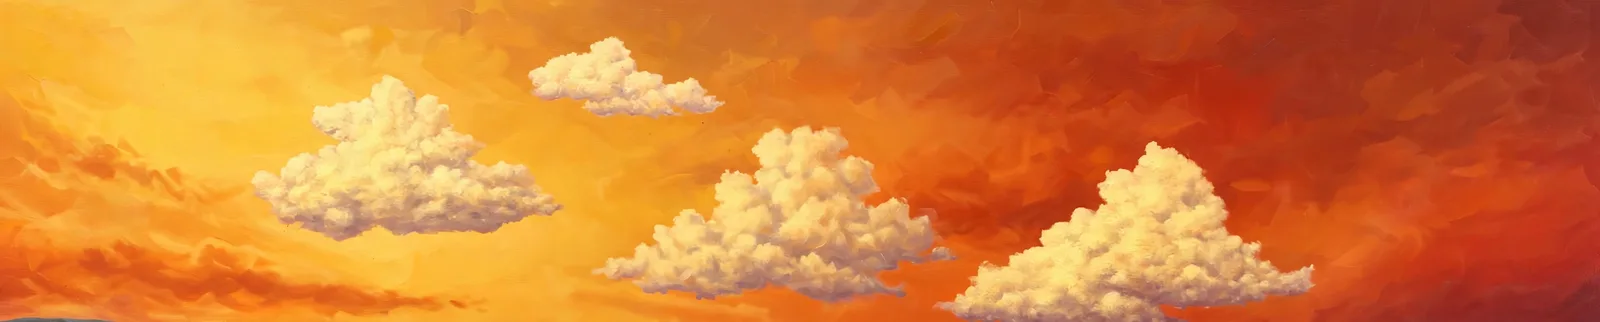
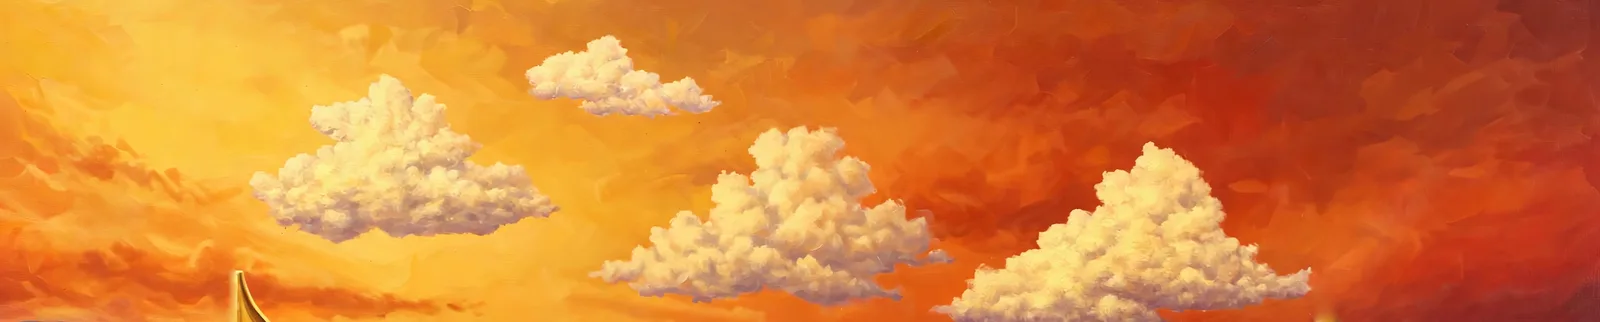
6loud DEV FORK 116: FLOWER FIELD IDENTITY PLATES — the master is OURS (Keith, 2026-11-15 22:29-22:30 ET: the album cover was inspiration only, the world must be unique — he picked "Notes in the field": giant musical notes among the sunflowers, 6loud's own currency as the world's signature). Plates r

diff --git a/6loud/dev/index.html b/6loud/dev/index.html
@@ -255,7 +255,7 @@
   <button id="charR" aria-label="Next character"></button>
   <div id="selectStack"><div id="charName">6LADE</div><div id="charBest"></div><div id="charLock" style="display:none;pointer-events:auto;cursor:pointer;"></div>   <!-- DEV FORK 74: the price line is a tap target — it opens the buy card --></div>
   <div id="strip"></div>
-  <div id="mapToast" style="display:none;"><img id="mapBadge" src="unlock-badge.webp" alt="NEW LEVEL UNLOCKED!"><div class="mt2" id="mapToastName">MIDNIGHT RUN</div></div>   <!-- DEV FORK 27: Keith's badge art carries the announcement; the gold line names the map --><div id="titleUI">   <!-- DEV FORK 26: the unlock toast lives at body level — a fixed element inside a transformed ancestor would anchor to the ancestor, not the sky --><button id="startBtn">START GAME</button><button id="mapBtn" style="display:none;">MAP: DAY BREAK</button>   <!-- DEV FORK 26: the start-area toggle --><button id="optBtn" class="audTg">OPTIONS</button><div id="ver">v0.99.8 · DEV FORK 115</div></div>
+  <div id="mapToast" style="display:none;"><img id="mapBadge" src="unlock-badge.webp" alt="NEW LEVEL UNLOCKED!"><div class="mt2" id="mapToastName">MIDNIGHT RUN</div></div>   <!-- DEV FORK 27: Keith's badge art carries the announcement; the gold line names the map --><div id="titleUI">   <!-- DEV FORK 26: the unlock toast lives at body level — a fixed element inside a transformed ancestor would anchor to the ancestor, not the sky --><button id="startBtn">START GAME</button><button id="mapBtn" style="display:none;">MAP: DAY BREAK</button>   <!-- DEV FORK 26: the start-area toggle --><button id="optBtn" class="audTg">OPTIONS</button><div id="ver">v0.99.8 · DEV FORK 116</div></div>
   <div id="dbg"></div>
   <div id="adSim"><div class="adSimIn"><button id="adSimClose" disabled>✕</button><div class="adSimTag">TEST AD · <span id="adSimKind">REWARDED</span></div><div class="adSimBody">Your ad would play here.</div><div id="adSimCount">5s</div><div class="adSimBar"><div id="adSimFill"></div></div><button id="adSimClaim" class="btn" style="display:none;">CLAIM REVIVE</button><div class="adSimHint" id="adSimHint"></div></div></div>
   <div id="loader"><div class="ldSea"></div><img id="ldEmblem" src="emblem.webp" alt="6LOUD"><div id="ldWord">LOADING...</div><div id="ldBarWrap"><div id="ldBar"><div id="ldFill"></div></div></div><div id="ldSub">GET READY TO JUMP!</div><div id="ldPct">LOADING 0%</div><div id="ldTip"></div></div>
@@ -987,7 +987,7 @@ window.__STORMBG.forEach(i => queueImg(im => { BGIMG['rs' + i] = im; }, 'stormbg
 window.__dressDay = function (idx) { return window.__bokPlane === 'mid' ? BGIMG['rd' + window.__BGRAIN_D[idx % window.__BGRAIN_D.length]] : BGIMG['rs' + window.__STORMBG[idx % window.__STORMBG.length]]; };   /* DEV FORK 89: the DAY dressing, picked by plane (Keith) — the FAR background keeps the storm first set (FORK 84); the MID layer wears the bgrain DAY pool instead: up close, the storm set's baked-rain clouds read as jellyfish */
 window.__CITYDUSK = {}; ['far', 'mid', 'near', 'fogband', 'far2', 'mid2', 'near2', 'far3', 'mid3', 'near3', 'far4', 'mid4', 'near4']   /* DEV FORK 99: sets 2-4 load beside the demo set */.forEach(k => queueImg(im => { window.__CITYDUSK[k] = im; }, 'citydusk/' + k + '.webp', false));   /* DEV FORK 87: the CITY DUSK demo plates — image-generated art, fog + bokeh baked in by code (Keith) */
 window.__SEASTRIP = null; queueImg(im => { window.__SEASTRIP = im; }, 'seastrip.webp', false);
-window.__FLOWER = { sky: null, hills: null, strip: null }; ['sky', 'hills', 'strip'].forEach(k => queueImg(im => { window.__FLOWER[k] = im; }, 'flowerboy/' + k + '.webp', false));   /* DEV FORK 108: the FLOWER FIELD plates (tools/bake_flowerboy.py) — fork-local demo art, loaded lazy like the background packs, never core */   /* DEV FORK 110: no bees are loaded — Keith removed them (2026-11-15: "Remove the beas and the rainbow"); the plates were re-baked bee- and rainbow-free (tools/bake_flowerboy_v2.py) and the bee webps stay on disk unreferenced */   /* DEV FORK 95: THE SEA STRIP — one baked cloud-top field (tools/bake_seastrip.py, from Keith's realistic cloud photos), mirror-tiled by the sea draw in the standard worlds */
+window.__FLOWER = { sky: null, hills: null, strip: null }; ['sky', 'hills', 'strip'].forEach(k => queueImg(im => { window.__FLOWER[k] = im; }, 'flowerboy/' + k + '.webp', false));   /* DEV FORK 108: the FLOWER FIELD plates (tools/bake_flowerboy.py) — fork-local demo art, loaded lazy like the background packs, never core */   /* DEV FORK 110: no bees are loaded — Keith removed them (2026-11-15: "Remove the beas and the rainbow"); the plates were re-baked bee- and rainbow-free (tools/bake_flowerboy_v2.py) and the bee webps stay on disk unreferenced */   /* DEV FORK 116: the plates are re-baked from the v3 NOTES master (tools/bake_flowerboy_v3.py) — the world is ours: every gold note lives whole in the hills plate (band extended to master 330-975, plate 1600x421) so no note shears across the parallax split, and the strip is pure sunflower texture with every note pixel painted out */   /* DEV FORK 95: THE SEA STRIP — one baked cloud-top field (tools/bake_seastrip.py, from Keith's realistic cloud photos), mirror-tiled by the sea draw in the standard worlds */
 window.__dressOne = function (d, star, dx, dy, ox, txm, tym) { if (window.__map !== 'rain' && window.__map !== 'rain2') return false; const a = ctx.globalAlpha; const idx = Math.abs(Math.round(d.x * 7 + d.y * 13)); if (star < 0.98) { const im = window.__bokPick ? window.__bokPick(window.__dressDay(idx)) : window.__dressDay(idx);   /* DEV FORK 87: BOKEH demo — the rain worlds' far dressing takes the pass too (far plane only; __bokPick checks the plane) */   /* DEV FORK 89: by day the FAR background is the storm first set (FORK 84) but the MID layer wears the bgrain day pool — jellyfish out of the near background (Keith) */ if (im && im.naturalWidth) { ctx.globalAlpha = a * (1 - star); ctx.drawImage(im, dx + ox - tiltX * txm, dy - tiltY * tym, d.w, d.w * im.naturalHeight / im.naturalWidth); } } if (star > 0.02) { const im = window.__bokPick ? window.__bokPick(BGIMG['rn' + window.__BGRAIN_N[idx % window.__BGRAIN_N.length]]) : BGIMG['rn' + window.__BGRAIN_N[idx % window.__BGRAIN_N.length]];   /* DEV FORK 87: BOKEH demo — same for the night set */ if (im && im.naturalWidth) { ctx.globalAlpha = a * star; ctx.drawImage(im, dx + ox - tiltX * txm, dy - tiltY * tym, d.w, d.w * im.naturalHeight / im.naturalWidth); } } ctx.globalAlpha = a; return true; };   /* DEV FORK 83: in the rain worlds a dress sprite wears Keith's rain clouds — day art by day, night art by night, crossfaded on the sky's star; returns true so the standard cloud never draws there */
 pumpQ();
 
@@ -3167,12 +3167,12 @@ function dbgTick(ts) {
   if (mode === 'over') {   /* DEV FORK: on the results screen the readout SHRINKS to a two-line strip docked at the very bottom — the full panel was sprawled over the leaderboard (Keith's screenshot, 2026-11-11) */
     const el = $('dbg');
     el.style.top = 'auto'; el.style.bottom = 'calc(4px + env(safe-area-inset-bottom))'; el.style.fontSize = '9.5px';
-    el.textContent = 'FORK115 · OVER · ' + dbgFps + 'fps · ' + innerWidth + 'x' + innerHeight + ' · ' + selChar + ' R' + (PSKIN.rate || 1) + ' · DIST ' + Math.round(runFt()) + ' FT · SCR ' + score + ' · JMP ' + jumps + '\n' + ghostTxt + (DBG_EV.length ? ' · ' + DBG_EV[DBG_EV.length - 1] : '');
+    el.textContent = 'FORK116 · OVER · ' + dbgFps + 'fps · ' + innerWidth + 'x' + innerHeight + ' · ' + selChar + ' R' + (PSKIN.rate || 1) + ' · DIST ' + Math.round(runFt()) + ' FT · SCR ' + score + ' · JMP ' + jumps + '\n' + ghostTxt + (DBG_EV.length ? ' · ' + DBG_EV[DBG_EV.length - 1] : '');
     return;
   }
   const el = $('dbg'); el.style.top = ''; el.style.bottom = ''; el.style.fontSize = '';
   const lines = [
-    'FORK115 · ' + String(mode).toUpperCase() + ' · ' + dbgFps + 'fps · ' + innerWidth + 'x' + innerHeight + ' dpr' + (devicePixelRatio || 1),
+    'FORK116 · ' + String(mode).toUpperCase() + ' · ' + dbgFps + 'fps · ' + innerWidth + 'x' + innerHeight + ' dpr' + (devicePixelRatio || 1),
     'CHR ' + selChar + ' R' + (PSKIN.rate || 1) + ' · SPD ' + Math.round(speed) + ' · ZOOM ' + zoom.toFixed(2),
     'DIST ' + Math.round(runFt()) + ' FT · SCR ' + score + ' · JMP ' + jumps,
     'vy ' + Math.round(vy) + (grounded ? ' · GROUND' : ' · AIR ' + (airMove || '-')) + ' · DBL ' + (doubleArmed ? 'ARM' : doubleUsed ? 'USED' : '-') + ' · TPL ' + (tripleUsed ? 'USED' : '-'),

diff --git a/6loud/dev/flowerboy/README.md b/6loud/dev/flowerboy/README.md
@@ -1,20 +1,62 @@
-# FLOWER FIELD demo plates (DEV FORK 108; bees + rainbow removed in DEV FORK 110)
+# FLOWER FIELD demo plates (DEV FORK 108; bees + rainbow removed in DEV FORK 110; identity plates in DEV FORK 116)
 
-Demo backdrop recreating the Flower Boy cover scene, at Keith's order
-(2026-11-15) — a working label only; Keith names worlds himself.
+Demo backdrop for the flower world, at Keith's order (2026-11-15)
+— a working label only; Keith names worlds himself. As of FORK 116
+the master is OURS (Keith, 2026-11-15 22:29-22:30 ET: the album
+cover was inspiration only, the world must be unique — he picked
+"Notes in the field": giant musical notes among the sunflowers,
+6loud's own currency as the world's signature).
 
 - Master (demo provenance, like the Golden Hour masters):
-  `renders/flowerboy-src/media-generation-flowerboy-master-v2-nobees-*.webp`
-  — the clean re-generation with no bees and no rainbow (Keith,
-  2026-11-15: "Remove the beas and the rainbow").
-- Bake: `tools/bake_flowerboy_v2.py` — sky / hills / sunflower strip
-  plates split by the painting's natural bands (QC:
-  `renders/flowerboy-src/flowerboy-plates-qc-v2.jpg`).
-- sky.webp — sky + clouds, opaque, full-cover backdrop. No rainbow.
-- hills.webp — green hills + road + car, top edge noise-melted.
-- strip.webp — sunflower band, mirror-tiled foreground strip (the sea
-  strip's role).
+  `renders/flowerboy-src/media-generation-flowerboy-master-v3-notes-*.webp`
+  (2448×1024) — sunset sky, green hills + road + car, sunflower
+  field, and SEVEN gold notes: two giants flanking, note 2, a
+  beamed pair, three small drifts. No bees, no rainbow.
+- Bake: `tools/bake_flowerboy_v3.py` (QC:
+  `renders/flowerboy-src/flowerboy-plates-qc-v3.jpg`; parallax
+  rigidity: `renders/flowerboy-src/flowerboy-parallax-qc-v3.jpg`
+  via `tools/flowerboy_parallax_qc.py`).
+- THE BANDING LAW (settled from the __flowerDraw math): every
+  note lives WHOLE in the hills plate — heads and full stems at
+  their painted positions — so no note shears across the
+  parallax split; the strip draws over the hills' bottom band
+  in play, so stem bases (and note 2's head) tuck behind the
+  flowers and the notes read as rising out of the field.
+- sky.webp — sky + clouds, opaque, full-cover backdrop
+  (1600×322). The giants' stems are painted out of it — their
+  tops live in the hills; a sky copy would ghost at the split.
+- hills.webp — green hills + road + car AND all seven notes,
+  top edge noise-melted with the notes' alpha restored through
+  the melt. Band extended to master y 330–975 to hold the notes
+  whole; plate 1600×421 keeps the painting's aspect. No note
+  straddles a tile edge (≥150 plate px clear), so mirror tiling
+  never halves one.
+- strip.webp — PURE sunflower band (2000×197, FORK 110's exact
+  size and anchor), mirror-tiled foreground strip (the sea
+  strip's role). Every note pixel in its band is painted out
+  with cloned flowers; only the giants' green stalks remain,
+  reading as flower stems.
 - bee1–bee6.webp — the FORK 108 bee sprites. As of FORK 110 they are
   UNREFERENCED: the code neither loads nor draws them. The files stay
   on disk and on the site by decision; nothing in the game points at
   them.
+- rainbow.webp — STAGED, NOT WIRED (asset prepared 2026-11-15).
+  Keith's ruling (2026-11-15 22:43 ET): "You could put a single
+  rainbow we pass / In the distance" — ONE rainbow, far away, passed
+  once per run. It must NOT be baked into the tiling plates; wire it
+  as a single far-plane sprite at a fixed world position.
+  Source: route (a) — a fresh arc generated on pure black
+  (`renders/flowerboy-src/media-generation-flowerboy-rainbow-onblack-v2-*.webp`;
+  black chosen because every saturated chroma hue collides with one
+  of the rainbow's own bands), lifted by additive max-channel alpha
+  extraction + un-premultiply, ~22% atmospheric desaturation, alpha
+  capped at 0.95. NOT extracted from the v1 master — its rainbow is
+  a partial arc exiting the canvas corner. QC:
+  `renders/flowerboy-src/rainbow-qc-v1.jpg`.
+  Canvas 1600×880, lossless WebP, straight (un-premultiplied) alpha.
+  Anchors for the wiring: visual centre x = 0.506 of width; arc top
+  edge at y ≈ 0.015 of height; the FOOT LINE IS THE CANVAS BOTTOM
+  EDGE — both feet dissolve to zero alpha right at the bottom, so
+  anchor placements by the bottom edge and set it at or just below
+  the hills line so the feet read as lost in the hills. Strong span
+  (alpha > 0.25): x 0.065–0.946 of width.
